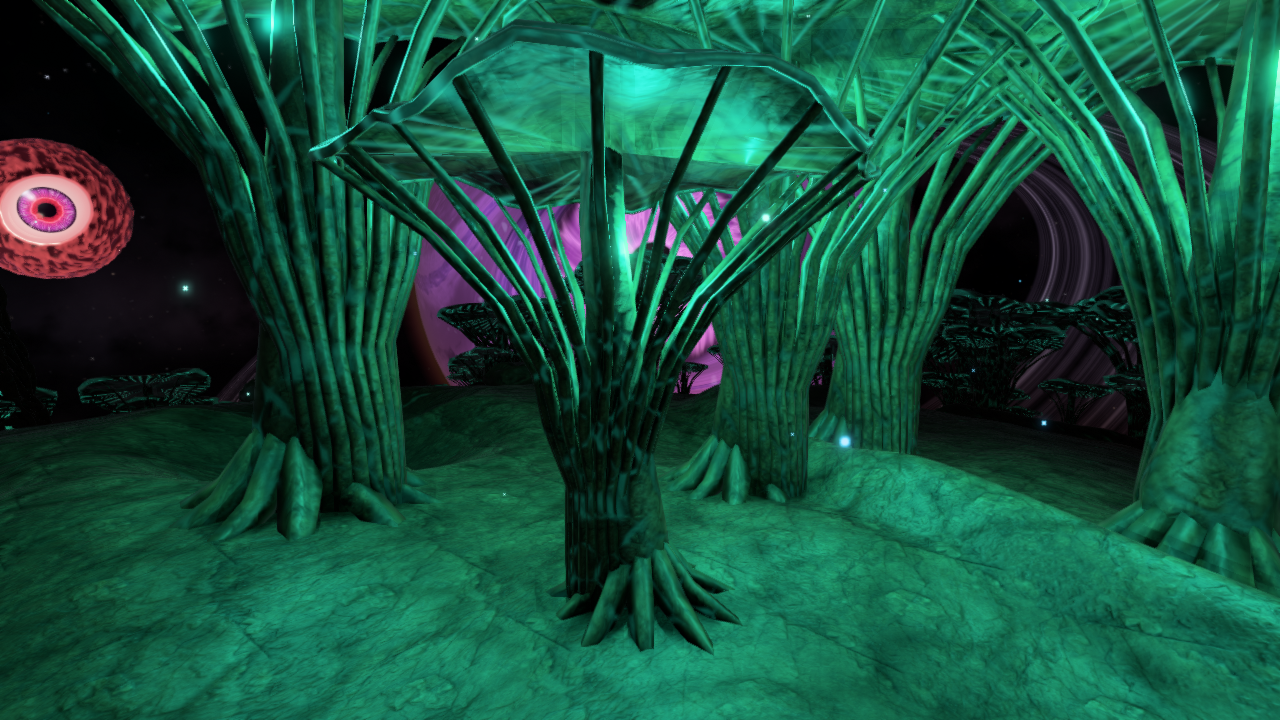
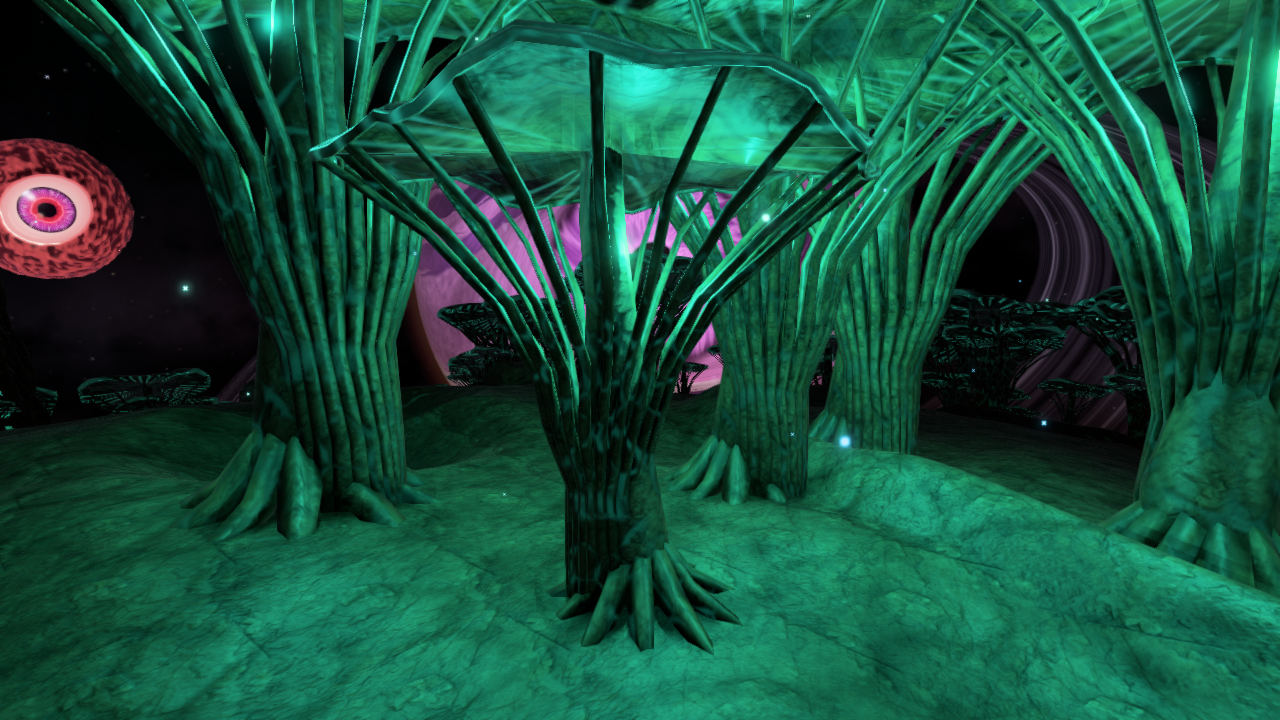
Darle a Vigia bandas turbulentas, ocho ojos chicos que se abren y miran a la nave, auroras en los polos y relampagos en el lado de noche

Changed region(s): [[0.3125, 0.2444, 0.4375, 0.4583], [0.5312, 0.4889, 0.5625, 0.55], [0.3438, 0.4583, 0.375, 0.5194]]

diff --git a/src/shaders/vigia.rs b/src/shaders/vigia.rs
@@ -1,9 +1,24 @@
 //! Vigia: gigante gaseoso morado con una tormenta que es un ojo y te sigue.
 //!
-//! - **Nubes**: el mapa del Hubble de Jupiter (NASA) solo da el detalle de
-//!   las nubes, por su luminancia; el color sale de una paleta propia, del
-//!   indigo casi negro al morado, la orquidea y el rosa de las crestas. Cada
-//!   latitud gira a su ritmo (rotacion diferencial).
+//! - **Bandas**: franjas por latitud, cada una con su color (zonas claras
+//!   lila y crema, cinturones indigo, ciruela y magenta) y corriendo a su
+//!   ritmo, unas al este y otras al oeste. Sus bordes se ondulan y se
+//!   enroscan: la latitud se tuerce con un fbm (turbulencia) y con ondas a
+//!   lo largo de la longitud (Kelvin-Helmholtz, como entre las bandas de
+//!   Saturno). El mapa del Hubble de Jupiter (NASA) solo da el detalle fino
+//!   de las nubes, por su luminancia. Cerca del ojo las bandas se enroscan
+//!   hacia el (se calculan en el punto ya girado por el vortice).
+//! - **Ojos chicos**: ocho tormentas que viajan con su banda, cada una con
+//!   su remolino. De lejos son una rendija cerrada entre las nubes; con la
+//!   nave cerca se abren (una almendra en los ejes de la tormenta) y su
+//!   pupila se corre hacia donde esta la nave (`Uniforms::eye_dir`
+//!   proyectada en el plano de la tormenta).
+//! - **Auroras**: un ovalo alrededor de cada polo con cortinas que se mueven
+//!   (ruido estirado a lo largo de la longitud), verdes abajo y magenta
+//!   arriba; laten con la estrella y se ven sobre todo de noche y en el
+//!   borde, donde se miran de lado.
+//! - **Relampagos por todo el planeta**: celdas sobre la esfera que destellan
+//!   a ratos (cada una a su hora), mas visibles en el lado de noche.
 //! - **Vortice**: cerca del ojo, el punto se gira alrededor del eje del ojo
 //!   antes de muestrear (rotacion de Rodrigues). El giro crece hacia el
 //!   centro, asi las bandas se enroscan en espiral, y avanza con el tiempo:
@@ -24,7 +39,7 @@
 //!   disco se lee entero desde cualquier lado y el ojo no queda flotando.
 
 use super::{Fragment, Uniforms, limb_haze};
-use crate::math::{Vec3, smoothstep};
+use crate::math::{Vec3, hash_u32, smoothstep};
 
 /// Radio angular del iris (radianes).
 pub const EYE_RADIUS: f32 = 0.3;
@@ -38,6 +53,56 @@ const IRIS_HOT: Vec3 = Vec3::new(1.0, 0.32, 0.72);
 const IRIS_COOL: Vec3 = Vec3::new(0.62, 0.22, 1.0);
 /// Tinte del brillo propio del gas en el lado de noche.
 const DEEP_GLOW: Vec3 = Vec3::new(0.75, 0.42, 1.25);
+
+/// Colores de las bandas: zonas claras y cinturones oscuros.
+const BANDS: [Vec3; 8] = [
+    Vec3::new(0.3, 0.16, 0.42),
+    Vec3::new(0.03, 0.012, 0.08),
+    Vec3::new(0.42, 0.14, 0.4),
+    Vec3::new(0.12, 0.03, 0.17),
+    Vec3::new(0.46, 0.34, 0.54),
+    Vec3::new(0.26, 0.03, 0.24),
+    Vec3::new(0.07, 0.05, 0.22),
+    Vec3::new(0.22, 0.07, 0.34),
+];
+/// Bandas por radian de latitud.
+const BAND_DENSITY: f32 = 11.0;
+
+/// Un ojo chico: latitud y longitud al empezar (radianes), lo que corre en
+/// longitud por segundo, su radio angular y el color del iris.
+struct Storm {
+    lat: f32,
+    lon: f32,
+    speed: f32,
+    size: f32,
+    iris: Vec3,
+}
+
+const STORMS: [Storm; 8] = [
+    Storm { lat: 0.42, lon: 0.6, speed: 0.012, size: 0.12, iris: Vec3::new(0.3, 0.95, 0.75) },
+    Storm { lat: -0.55, lon: 2.4, speed: -0.009, size: 0.13, iris: Vec3::new(1.0, 0.55, 0.15) },
+    Storm { lat: 0.08, lon: 4.1, speed: 0.016, size: 0.1, iris: Vec3::new(0.95, 0.25, 0.6) },
+    Storm { lat: -0.2, lon: 5.4, speed: -0.013, size: 0.11, iris: Vec3::new(0.45, 0.6, 1.0) },
+    Storm { lat: 0.78, lon: 3.3, speed: 0.008, size: 0.1, iris: Vec3::new(0.9, 0.9, 0.35) },
+    Storm { lat: -0.85, lon: 0.2, speed: 0.01, size: 0.1, iris: Vec3::new(0.35, 1.0, 0.4) },
+    Storm { lat: 0.25, lon: 2.0, speed: -0.011, size: 0.12, iris: Vec3::new(1.0, 0.35, 0.3) },
+    Storm { lat: -0.4, lon: 3.8, speed: 0.014, size: 0.11, iris: Vec3::new(0.6, 0.4, 1.0) },
+];
+
+#[inline]
+fn unit(h: u32) -> f32 {
+    (h >> 8) as f32 / 16_777_216.0
+}
+
+/// Donde esta el ojo chico `s` en `t` (direccion en el espacio de Vigia) y
+/// sus ejes: al este y al norte.
+#[inline]
+fn storm_frame(s: &Storm, t: f32) -> (Vec3, Vec3, Vec3) {
+    let lon = s.lon + s.speed * t;
+    let c = Vec3::new(s.lat.cos() * lon.cos(), s.lat.sin(), s.lat.cos() * lon.sin());
+    let east = Vec3::Y.cross(c).normalize();
+    (c, east, c.cross(east))
+}
 
 /// Gira `p` un angulo `angle` alrededor del eje unitario `axis` (Rodrigues).
 #[inline]
@@ -57,6 +122,34 @@ fn palette(lum: f32) -> Vec3 {
     }
 }
 
+/// El color de las bandas en `qb` (el punto ya doblado por los vortices):
+/// la latitud se tuerce con turbulencia y con ondas a lo largo de la
+/// longitud; cada banda tiene su color y su corriente. `lum` es el detalle
+/// de las nubes del mapa. Debajo del iris del ojo grande no se calcula: no
+/// se ve.
+fn bands(qb: Vec3, t: f32, lum: f32, footprint: f32, u: &Uniforms) -> Vec3 {
+    let lat = qb.y.clamp(-1.0, 1.0).asin();
+    let lon = qb.z.atan2(qb.x);
+    let curl = u.noise.fbm(qb * 3.2 + Vec3::new(0.0, t * 0.004, 0.0), 2) + 0.35 * u.noise.noise(qb * 11.0);
+    let rough = lat * BAND_DENSITY + 0.55 * curl;
+    let k = rough.floor();
+    let id = hash_u32(k as i32 as u32 ^ 0xBA2D);
+    let current = (unit(id) - 0.5) * 0.06;
+    let phase = lon * (8.0 + 6.0 * unit(id >> 4)) + t * current + k * 1.7;
+    // Ondas con la cresta enroscada (dos armonicos), como entre las bandas
+    // de Saturno.
+    let wave = phase.sin() + 0.45 * (2.0 * phase + 0.8).sin();
+    let y = rough + 0.18 * wave;
+    let k = y.floor();
+    let pick = |k: f32| BANDS[(hash_u32(k as i32 as u32 ^ 0x51E) % BANDS.len() as u32) as usize];
+    let edge = smoothstep(0.78, 0.98, y - k);
+    let band = pick(k).lerp(pick(k + 1.0), edge);
+    // Remolinos chicos dentro de cada banda (solo cuando se alcanzan a ver).
+    let fine = smoothstep(0.02, 0.005, footprint);
+    let eddies = if fine > 0.0 { u.noise.fbm(qb * 26.0 + Vec3::splat(k * 0.37), 2) * fine } else { 0.0 };
+    band * (0.4 + 1.15 * lum) * (0.85 + 0.45 * eddies)
+}
+
 pub fn shade(f: &Fragment, u: &Uniforms) -> Vec3 {
     let p = f.local.normalize();
     let t = u.time;
@@ -70,7 +163,31 @@ pub fn shade(f: &Fragment, u: &Uniforms) -> Vec3 {
     // Vortice que gira y enrosca las bandas hacia el ojo.
     let falloff = (-r * r * 0.45).exp();
     let swirl = (2.6 + 0.8 * cycle) * falloff + t * 0.12 * (-r * r * 1.4).exp();
-    let q = rotate(p, eye, swirl);
+    let mut q = rotate(p, eye, swirl);
+    // Las bandas se doblan alrededor del ojo, pero menos que el detalle: con
+    // todo el giro el disco entero quedaba como una paleta de dulce.
+    let mut qb = rotate(p, eye, swirl * 0.4);
+    // Los ojos chicos tambien enroscan las nubes a su alrededor. El ojo
+    // grande se los traga si pasa encima.
+    let mut near_storm: Option<(usize, f32)> = None;
+    let here = p.y.clamp(-1.0, 1.0).asin();
+    for (i, s) in STORMS.iter().enumerate() {
+        // Primero por la latitud, que no cuesta: casi todos quedan lejos.
+        if (here - s.lat).abs() > 3.0 * s.size {
+            continue;
+        }
+        let (c, _, _) = storm_frame(s, t);
+        let d = p.dot(c).clamp(-1.0, 1.0).acos() / s.size;
+        if d < 3.0 {
+            let away = smoothstep(1.4, 2.2, c.dot(eye).clamp(-1.0, 1.0).acos() / EYE_RADIUS);
+            let turn = 2.2 * (-d * d * 0.5).exp() * away * s.speed.signum();
+            q = rotate(q, c, turn);
+            qb = rotate(qb, c, turn);
+            if near_storm.is_none_or(|(_, best)| d < best) && away > 0.0 {
+                near_storm = Some((i, d));
+            }
+        }
+    }
     // Rotacion diferencial: cada banda corre a su ritmo.
     let drift = t * 0.003 * (q.y * 9.0).sin();
     let (s, c) = drift.sin_cos();
@@ -80,7 +197,8 @@ pub fn shade(f: &Fragment, u: &Uniforms) -> Vec3 {
     let lum = smoothstep(0.03, 0.8, clouds.luminance()).powf(1.5);
     // Los cinturones rojizos de la foto quedan magenta.
     let warm = smoothstep(0.0, 0.08, clouds.x - clouds.z);
-    let mut albedo = palette(lum).lerp(ORCHID * (0.5 + lum), warm * 0.35);
+    let old = palette(lum).lerp(ORCHID * (0.5 + lum), warm * 0.35);
+    let mut albedo = if r < 0.88 { old } else { bands(qb, t, lum, footprint, u).lerp(old, 0.3) };
 
     // Ejes alrededor del ojo, para las coordenadas polares.
     let (a, b) = {
@@ -131,6 +249,34 @@ pub fn shade(f: &Fragment, u: &Uniforms) -> Vec3 {
             + iris_color * (rim * (0.6 + 1.2 * u.eye_near));
     }
 
+    // Los ojos chicos: una rendija de lejos; con la nave cerca se abren y
+    // miran hacia ella.
+    if let Some((i, d)) = near_storm.filter(|&(_, d)| d < 1.4) {
+        let s = &STORMS[i];
+        let (c, east, north) = storm_frame(s, t);
+        let (x, y) = (p.dot(east) / s.size, p.dot(north) / s.size);
+        let open = 0.12 + 0.88 * smoothstep(0.15, 0.75, u.eye_near);
+        // Una almendra: mas abierta en medio.
+        let lid = (1.0 - x * x).max(0.0) * open;
+        let inside = smoothstep(0.03, -0.03, y.abs() - lid) * smoothstep(1.02, 0.95, x.abs());
+        // El borde de los parpados, oscuro.
+        let rim = smoothstep(0.12, 0.0, (y.abs() - lid).abs()) * smoothstep(1.1, 0.9, x.abs()) * (1.0 - inside);
+        // La pupila se corre hacia la nave.
+        let look = eye - c * eye.dot(c);
+        let (lx, ly) = (look.dot(east), look.dot(north));
+        let reach = (lx * lx + ly * ly).sqrt().max(1e-4);
+        let shift = (reach * 4.0).min(1.0) * 0.4 * open;
+        let (px, py) = (x - lx / reach * shift, y - ly / reach * shift * open);
+        let pr = (px * px + py * py).sqrt();
+        let fibers = u.noise.noise(Vec3::new(py.atan2(px) * 3.0, pr * 4.0, i as f32 * 7.0)) * 0.5 + 0.5;
+        let iris = s.iris * (0.35 + 0.65 * fibers) * smoothstep(0.75, 0.3, pr);
+        let pupil = smoothstep(0.26, 0.2, pr);
+        let eyeball = Vec3::new(0.08, 0.03, 0.1).lerp(iris, smoothstep(0.75, 0.65, pr)) * (1.0 - 0.95 * pupil);
+        albedo = albedo.lerp(eyeball, inside).lerp(INDIGO, rim * 0.9);
+        glow += s.iris * (inside * (1.0 - pupil) * smoothstep(0.7, 0.2, pr) * (0.25 + 0.6 * u.eye_near) * 0.6);
+        let _ = d;
+    }
+
     // Relampagos chicos en las nubes del vortice, cada uno dura una
     // fraccion de segundo. Con la nave cerca la tormenta se agita: mas
     // relampagos, y mas seguidos.
@@ -158,6 +304,45 @@ pub fn shade(f: &Fragment, u: &Uniforms) -> Vec3 {
     // bandas se siguen leyendo) y el iris alumbra el remolino que lo rodea.
     let night = smoothstep(0.2, -0.3, nl);
     let deep = albedo * DEEP_GLOW * (0.085 * night);
+
+    // Auroras: una cinta que serpentea alrededor de cada polo, con pliegues
+    // finos como cortinas; verde abajo (hacia el polo) y magenta arriba.
+    let colat = p.y.abs().clamp(-1.0, 1.0).acos();
+    if (0.18..0.52).contains(&colat) {
+        let plon = p.z.atan2(p.x);
+        let pole = p.y.signum();
+        let center = 0.34 + 0.045 * (plon * 3.0 + t * 0.15 + pole).sin() + 0.02 * u.noise.noise(Vec3::new(plon * 2.0, t * 0.1, pole));
+        let across = (colat - center) / 0.045;
+        let ribbon = (-across * across).exp();
+        if ribbon > 0.01 {
+            let folds = u.noise.noise(Vec3::new(plon * 38.0 + pole * 5.0, t * 0.6, 1.3)) * 0.5 + 0.5;
+            let curtain = 0.35 + 0.65 * smoothstep(0.3, 0.75, folds);
+            let color = Vec3::new(0.15, 1.0, 0.45).lerp(Vec3::new(0.9, 0.2, 0.85), smoothstep(-1.0, 1.2, across));
+            let pulse = 0.55 + 0.9 * u.beat;
+            let grazing = 1.0 + 2.5 * (1.0 - nv).powi(3);
+            glow += color * (ribbon * curtain * pulse * grazing * (0.12 + 0.88 * night) * 0.6);
+        }
+    }
+    // Relampagos por todo el planeta: celdas que destellan a ratos.
+    {
+        let g = p * 9.0;
+        let cell = g.floor();
+        let id = hash_u32(
+            (cell.x as i32 as u32).wrapping_mul(0x8DA6_B343)
+                ^ (cell.y as i32 as u32).wrapping_mul(0xD816_3841)
+                ^ (cell.z as i32 as u32).wrapping_mul(0xCB1A_B31F),
+        );
+        let clock = t * 1.7 + unit(id) * 40.0;
+        let slot = clock.floor();
+        if unit(hash_u32(id ^ slot as i32 as u32)) < 0.07 {
+            let center = Vec3::new(unit(id >> 3), unit(id >> 9), unit(id >> 15)) * 0.6 + Vec3::splat(0.2);
+            let spot = (g - cell - center).length_squared();
+            let age = clock - slot;
+            let flicker = (1.0 - age).max(0.0).powi(3) * (0.6 + 0.4 * (age * 60.0).sin().abs());
+            let flash = (-spot * 14.0).exp() * flicker;
+            glow += Vec3::new(0.6, 0.55, 1.0) * (flash * (0.06 + 0.9 * night) * (0.4 + 0.6 * lum) * 0.8);
+        }
+    }
     let around = smoothstep(0.85, 1.05, r) * (-(r - 1.0).powi(2) * 0.75).exp();
     let eye_light = albedo * iris_color * (around * (0.2 + 0.8 * night) * (0.5 + 0.5 * cycle) * 1.1);
     glow += deep + eye_light;

diff --git a/src/app.rs b/src/app.rs
@@ -135,7 +135,7 @@ pub struct Preset {
     pub chapin: bool,
 }
 
-pub const PRESETS: [Preset; 51] = [
+pub const PRESETS: [Preset; 52] = [
     Preset {
         name: "01_sistema",
         shot: Shot::Overview,
@@ -666,6 +666,18 @@ pub const PRESETS: [Preset; 51] = [
         time: 40.0,
         act: None,
         chapin: true,
+    },
+    Preset {
+        name: "59_vigia_de_noche",
+        shot: Shot::Orbit {
+            body: "Vigia",
+            distance: 2.4,
+            azimuth: 3.3,
+            elevation: 0.6,
+        },
+        time: 41.3,
+        act: None,
+        chapin: false,
     },
 ];
 

diff --git a/README.md b/README.md
@@ -210,7 +210,7 @@ Las vistas fijas se generan con `--captura` (nombres entre paréntesis).
 | **9 tipos de modelos** propios en la superficie (20) | Ojo de carne (Argos), hongo y coral (Jardín), espinas de obsidiana y géiser (Pira), nave náufraga y baliza de celosía (Cementerio), racimo de cristal (Párpado) y rocas, armados con código en `scene/props.rs`, cada uno en tres niveles de detalle. | (10) a (13), (26), (28), (32) |
 | **Distribución procedural** reproducible con ruido (10) | Una grilla por cara del cubo-esfera; cada celda propone un punto y lo acepta con una probabilidad de ruido fBm (grupos y claros) por las reglas del terreno (pendiente, surcos, lava, valles). Misma semilla, mismas ubicaciones. | F6 o T → semilla |
 | **Posición y orientación** sobre la superficie curva que gira (5) | Cada objeto vive en el espacio de su planeta, parado sobre la normal radial y hundido en el suelo; gira con el planeta y sube y baja con la respiración de Jardín. | Cualquier superficie |
-| **Shaders propios** distintos (24) | Estrella (fuego carmesí que hierve, con un ojo fijo en su superficie: un remolino alrededor de una pupila negra que late; borde en llamas que siguen en la corona, nubes de gas carmesí y magenta), Pira (placas de Voronoi y lava de cuerpo negro), Jardín (tejido con luz interna y poros), Vigía (paleta propia, vórtice de Rodrigues, brazos en espiral, iris de gas turbulento y relámpagos; del mapa del Hubble solo se toma el detalle de las nubes), Párpado (lagos espejo que reflejan a Vigía con su propio shader, cristal), Argos (iris en polares con fibras, collareta y pupila; esclera con venas; carne mojada; párpados que se cierran), Cementerio, anillos (naves y polvo), ojos de carne que miran a la nave, cristales, baliza, Pira hirviendo (corona volumétrica), nebulosa del estertor y Gargantúa. | Todas las vistas |
+| **Shaders propios** distintos (24) | Estrella (fuego carmesí que hierve, con un ojo fijo en su superficie: un remolino alrededor de una pupila negra que late; borde en llamas que siguen en la corona, nubes de gas carmesí y magenta), Pira (placas de Voronoi y lava de cuerpo negro), Jardín (tejido con luz interna y poros), Vigía (bandas por latitud que corren a su ritmo con bordes turbulentos y ondas de Kelvin-Helmholtz, vórtice de Rodrigues, brazos en espiral, iris de gas turbulento, ocho ojos chicos que viajan con su banda y se abren y te miran al acercarte, auroras en los polos que laten con la estrella y relámpagos por todo el lado de noche; del mapa del Hubble solo se toma el detalle de las nubes), Párpado (lagos espejo que reflejan a Vigía con su propio shader, cristal), Argos (iris en polares con fibras, collareta y pupila; esclera con venas; carne mojada; párpados que se cierran), Cementerio, anillos (naves y polvo), ojos de carne que miran a la nave, cristales, baliza, Pira hirviendo (corona volumétrica), nebulosa del estertor y Gargantúa. | Todas las vistas |
 | **Shader animado** (8) | La estrella late: su pupila se dilata, cada latido sale de ella como un anillo de luz y su remolino gira; la lava y la luz de Jardín laten con retraso; Jardín respira; los géiseres hacen erupción; el vórtice de Vigía gira, su tormenta cambia de fuerza y de color y su pupila se dilata; el ojo de Argos parpadea, cierra la pupila con la nave cerca y sus venas laten; los cristales laten; el lago de Párpado ondula bajo la nave; los anillos orbitan con luces que parpadean; la nebulosa se expande; el gas del disco fluye. | (02), (04), (06), (10), (18), (25) |
 | **Mapeo de normales** (8) | Las placas del casco de los naufragios (generadas al arrancar), la roca y el tejido orgánico en triplanar, con mipmaps; tangentes por vértice y base TBN por pixel. | (13), (05) |
 | **Deformación de la geometría** con ruido (10) | Las funciones de altura de cada planeta desplazan los vértices del cubo-esfera (cráteres, crestas, mares de lava, zanjas); Jardín además respira en el vertex shader, y el de Argos aplana la carne donde está el ojo y levanta los párpados, siguiendo a la nave. | Todas; `--wire` |

diff --git a/EXPLICACION.md b/EXPLICACION.md
@@ -229,6 +229,24 @@
   la tormenta y corre su color del rosa al violeta. Los relámpagos son
   destellos chicos dentro de las nubes del vórtice. Tiene **anillos
   delgados de polvo** que brillan a contraluz.
+- **Vigía ya no es una pelota lisa** ([shaders/vigia.rs](src/shaders/vigia.rs)):
+  - **Bandas** por latitud, cada una con su color y su corriente (al este o
+    al oeste). La latitud se tuerce con un fbm y con ondas de dos armónicos
+    a lo largo de la longitud (Kelvin-Helmholtz, como entre las bandas de
+    Saturno), y adentro de cada banda hay remolinos chicos cuando se
+    alcanzan a ver. Se doblan alrededor del ojo con menos giro que el
+    detalle de las nubes (con todo el giro el disco parecía una paleta de
+    dulce) y no se calculan debajo del iris, donde no se ven.
+  - **Ocho ojos chicos** que viajan con su banda, cada uno enroscando las
+    nubes a su alrededor. De lejos son una rendija; con la nave cerca se
+    abren (una almendra en los ejes de la tormenta) y la pupila se corre
+    hacia la nave. Cada pixel los descarta primero por latitud, que no
+    cuesta, y el ojo grande se los traga si les pasa encima.
+  - **Auroras**: una cinta que serpentea alrededor de cada polo, con
+    pliegues finos como cortinas, verde abajo y magenta arriba; laten con
+    la estrella y se ven sobre todo de noche y en el borde.
+  - **Relámpagos por todo el planeta**: celdas sobre la esfera que destellan
+    cada una a su hora, sobre todo en el lado de noche.
 - **Párpado y El espejo** ([shaders/parpado.rs](src/shaders/parpado.rs)): la
   luna de Vigía, acoplada por marea (le da siempre la misma cara), con
   cordilleras de cristal y lagos. Del lado de Vigía hay un lago grande: su
